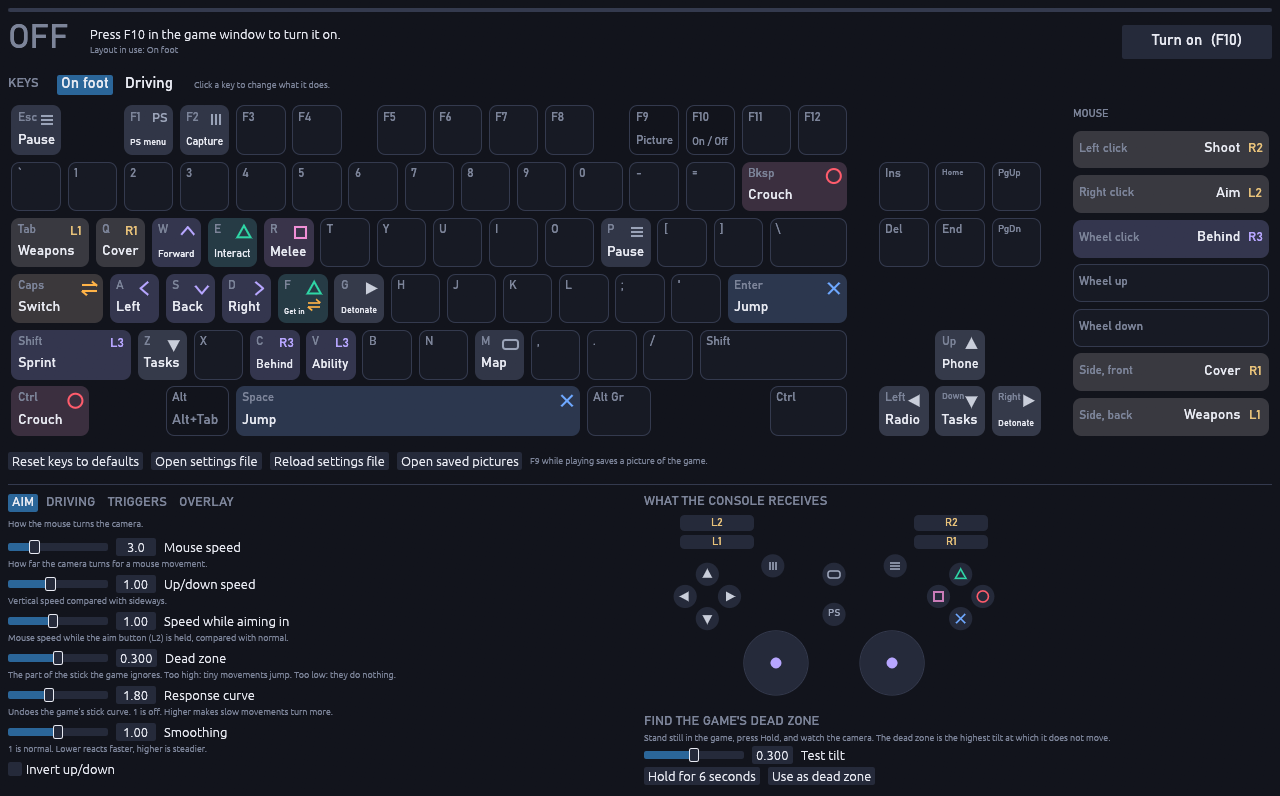
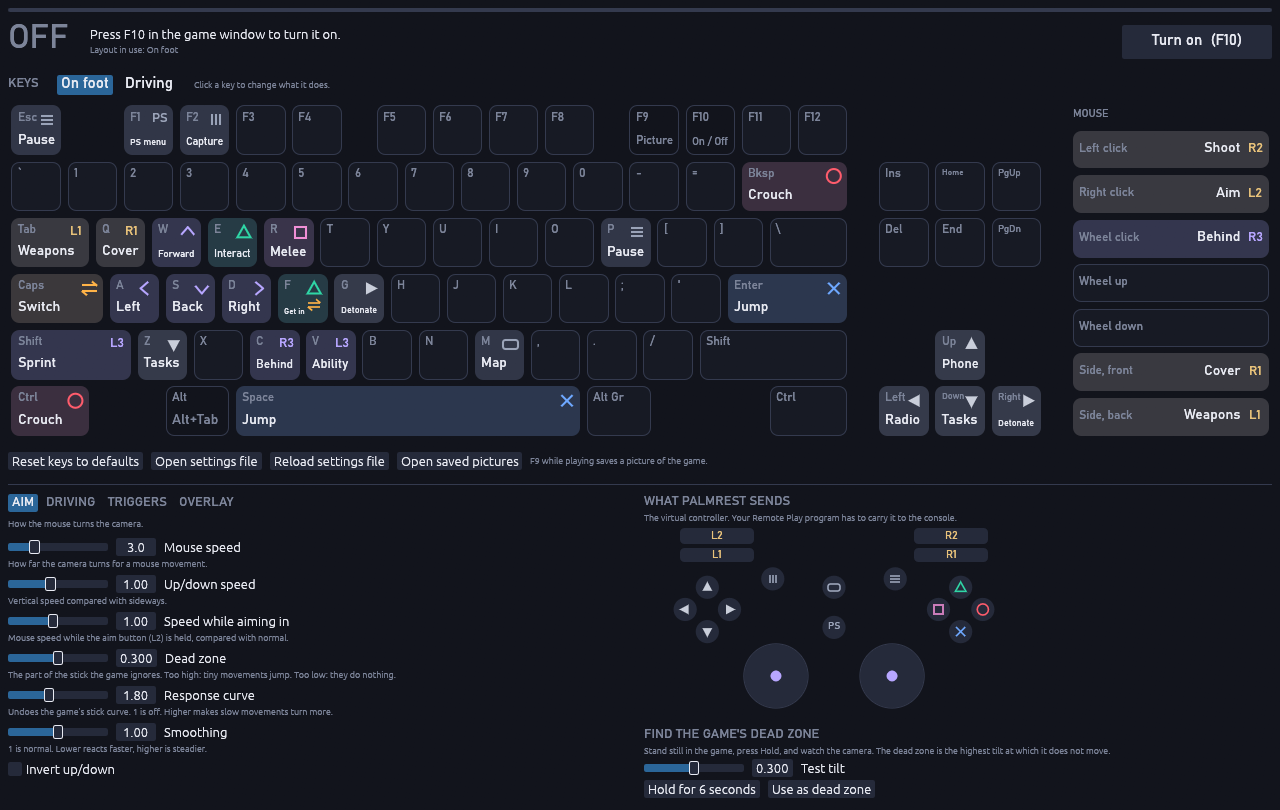
Window: the controller panel says what Palmrest sends
It was titled "What the console receives", but it shows the virtual controller,
which lights up whether or not a Remote Play program carries it to the console.
In issue #1 that read as proof the console was getting the buttons.

diff --git a/src/ui.rs b/src/ui.rs
@@ -1,5 +1,5 @@
 //! The window: whether the takeover is on, a keyboard showing what every key does (click a key to
-//! change it), the aim settings, and a live view of the controller the console receives.
+//! change it), the aim settings, and a live view of the controller Palmrest sends.
 
 use std::path::PathBuf;
 use std::sync::Arc;
@@ -682,9 +682,12 @@ impl App {
         });
     }
 
-    /// The controller the console receives: sticks, triggers and every button, lit while pressed.
+    /// The controller Palmrest sends: sticks, triggers and every button, lit while pressed. It
+    /// says nothing about whether a Remote Play program is carrying it on, which the note under
+    /// the title spells out: someone seeing buttons light up here took the console to have them.
     fn controller(&self, ui: &mut egui::Ui, pad: &PadState) {
-        ui.label(RichText::new("WHAT THE CONSOLE RECEIVES").font(self.font(13.0)).color(MUTED));
+        ui.label(RichText::new("WHAT PALMREST SENDS").font(self.font(13.0)).color(MUTED));
+        note(ui, "The virtual controller. Your Remote Play program has to carry it to the console.");
         let width = ui.available_width().clamp(260.0, 380.0);
         let (response, painter) = ui.allocate_painter(Vec2::new(width, width * 0.5), Sense::hover());
         let r = response.rect;
